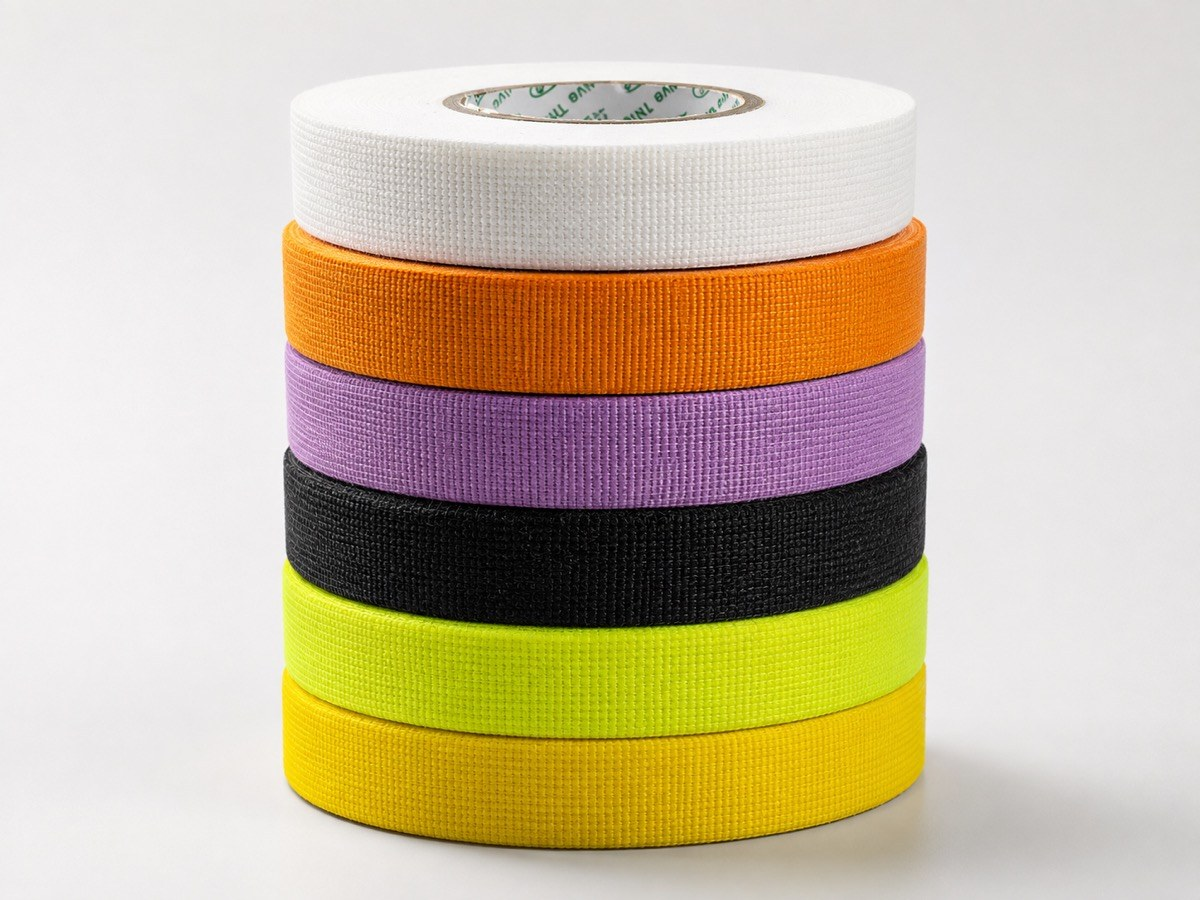
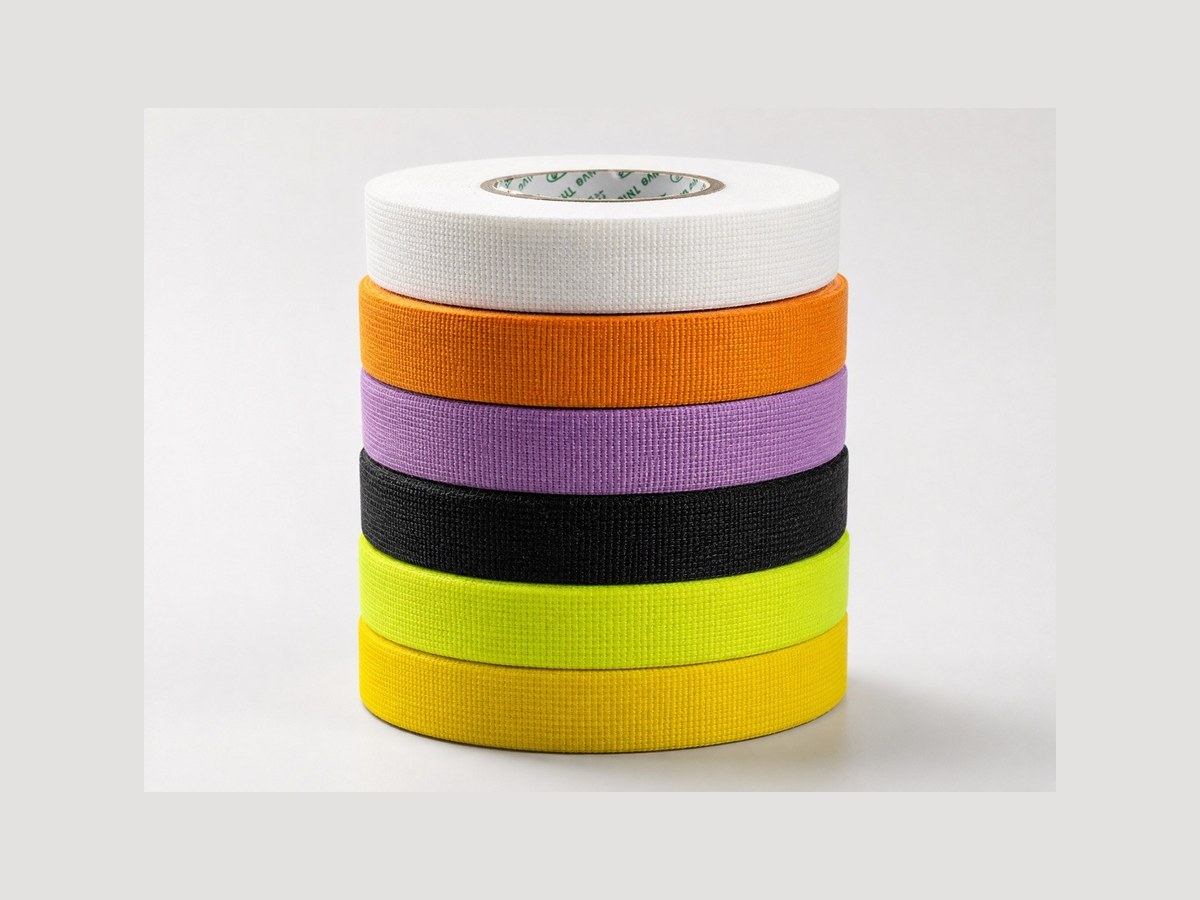
优化产品图显示：产品缩至76%居中、容器4:3比例、contain完整显示不放大
- 5张产品图: 产品主体缩至76%居中，四周留柔和背景
- product-detail-media: min-height 420px → aspect-ratio 4/3
- product-media: 改为 grid 居中，contain 完整显示
- 三处图片容器统一 contain + center，不再放大裁切

diff --git a/assets/css/styles.css b/assets/css/styles.css
@@ -37,7 +37,7 @@ button,input,textarea,select{font:inherit}
 .hero-content{position:relative;z-index:3;max-width:740px;margin-left:3vw}.eyebrow,.kicker{text-transform:uppercase;letter-spacing:.2em;font-size:11px;font-weight:700;color:var(--green)}.eyebrow{display:flex;align-items:center;gap:12px}.eyebrow span{width:46px;height:1px;background:var(--green)}
 h1{font-size:clamp(52px,6.4vw,108px);line-height:.94;letter-spacing:-.052em;text-transform:uppercase;margin:28px 0 30px;max-width:1000px}h1 em{font-style:normal;color:var(--green)}.hero-content>p{max-width:610px;color:#c5d0d2;font-size:18px}.hero-actions{display:flex;gap:14px;margin-top:35px}.hero-meta{display:flex;gap:58px;margin-top:64px;padding-top:25px;border-top:1px solid var(--line);max-width:710px}.hero-meta div{display:flex;flex-direction:column}.hero-meta strong{font-size:22px;color:#fff}.hero-meta span{font-size:10px;color:#9aabad;text-transform:uppercase;letter-spacing:.12em}.hero-badges{position:absolute;right:7vw;bottom:68px;z-index:3;display:grid;grid-template-columns:repeat(2,1fr);gap:7px}.hero-badges span{font-size:9px;letter-spacing:.13em;border:1px solid rgba(255,255,255,.2);padding:10px 12px;background:rgba(4,16,24,.65)}.scroll-cue{position:absolute;left:5vw;bottom:28px;z-index:3;display:flex;align-items:center;gap:12px;font-size:9px;text-transform:uppercase;letter-spacing:.14em;color:#9fb0b3}.scroll-cue i{width:60px;height:1px;background:var(--green)}
 .section{padding:120px 8vw;position:relative}.vertical-label{position:absolute;left:2vw;top:120px;writing-mode:vertical-rl;text-orientation:mixed;font-size:9px;letter-spacing:.16em;color:#607078}.section-number{font-weight:700}.intro{display:grid;grid-template-columns:minmax(0,1.55fr) minmax(280px,.7fr);gap:10vw;align-items:end}.intro h2,.section-head h2,.application h2,.manufacturing-preview h2,.markets h2,.quality-preview h2,.cta h2,.page-hero h1{font-size:clamp(38px,4.5vw,72px);line-height:1.03;letter-spacing:-.045em;margin:18px 0 0}.intro-note p{font-size:17px;color:#4d5b60}.text-link{display:inline-flex;gap:12px;align-items:center;margin-top:20px;font-size:12px;text-transform:uppercase;letter-spacing:.12em;font-weight:700}.text-link span{color:var(--green);font-size:18px}.text-link.light{color:#fff}
-.products{padding-top:125px}.section-head{display:flex;justify-content:space-between;align-items:end;gap:30px;margin-bottom:60px}.product-stage{display:grid;grid-template-columns:1.1fr 1fr;border:1px solid var(--line)}.product-feature{display:grid;grid-template-columns:1.05fr .95fr;min-height:650px;border-right:1px solid var(--line)}.product-media{overflow:hidden;display:flex;align-items:center;justify-content:center}.product-media img{width:100%;height:100%;object-fit:cover;object-position:center;transition:.7s}.product-feature:hover .product-media img{transform:scale(1.045) rotate(-1deg)}.soft-white{background:linear-gradient(145deg,#f6f8f5,#dfe6e1)}.product-copy{padding:55px 42px;display:flex;flex-direction:column;justify-content:center}.product-index{font-size:11px;color:var(--green);letter-spacing:.18em}.product-type{text-transform:uppercase;color:#9fb1b5;font-size:10px;letter-spacing:.15em}.product-copy h3,.product-card h3{font-size:33px;line-height:1.05;margin:10px 0 20px;letter-spacing:-.035em}.product-copy>p{color:#aebfc1}.spec-row{display:flex;gap:8px;flex-wrap:wrap;padding:0;margin:24px 0;list-style:none}.spec-row li{padding:8px 9px;border:1px solid var(--line);font-size:10px;color:#cbd5d6}.product-copy>a{font-size:11px;text-transform:uppercase;letter-spacing:.14em;color:var(--green)}.product-grid-small{display:grid;grid-template-columns:1fr 1fr}.product-card{padding:28px;border-right:1px solid var(--line);border-bottom:1px solid var(--line);min-height:325px}.product-card:nth-child(2n){border-right:0}.product-card:nth-last-child(-n+2){border-bottom:0}.card-top{display:flex;justify-content:space-between;color:var(--green);font-size:10px;letter-spacing:.14em}.card-top small{color:#8ea0a4;text-transform:uppercase}.product-thumb{height:145px;margin:18px 0;overflow:hidden}.product-thumb img{height:100%;width:100%;object-fit:cover;object-position:center;transition:.5s}.product-card:hover img{transform:scale(1.07)}.product-card h3{font-size:21px;margin:10px 0}.product-card p{font-size:11px;color:#91a3a6;margin:0}
+.products{padding-top:125px}.section-head{display:flex;justify-content:space-between;align-items:end;gap:30px;margin-bottom:60px}.product-stage{display:grid;grid-template-columns:1.1fr 1fr;border:1px solid var(--line)}.product-feature{display:grid;grid-template-columns:1.05fr .95fr;min-height:650px;border-right:1px solid var(--line)}.product-media{overflow:hidden;display:grid;place-items:center}.product-media img{width:100%;height:100%;object-fit:contain;object-position:center;transition:.7s}.product-feature:hover .product-media img{transform:scale(1.045) rotate(-1deg)}.soft-white{background:linear-gradient(145deg,#f6f8f5,#dfe6e1)}.product-copy{padding:55px 42px;display:flex;flex-direction:column;justify-content:center}.product-index{font-size:11px;color:var(--green);letter-spacing:.18em}.product-type{text-transform:uppercase;color:#9fb1b5;font-size:10px;letter-spacing:.15em}.product-copy h3,.product-card h3{font-size:33px;line-height:1.05;margin:10px 0 20px;letter-spacing:-.035em}.product-copy>p{color:#aebfc1}.spec-row{display:flex;gap:8px;flex-wrap:wrap;padding:0;margin:24px 0;list-style:none}.spec-row li{padding:8px 9px;border:1px solid var(--line);font-size:10px;color:#cbd5d6}.product-copy>a{font-size:11px;text-transform:uppercase;letter-spacing:.14em;color:var(--green)}.product-grid-small{display:grid;grid-template-columns:1fr 1fr}.product-card{padding:28px;border-right:1px solid var(--line);border-bottom:1px solid var(--line);min-height:325px}.product-card:nth-child(2n){border-right:0}.product-card:nth-last-child(-n+2){border-bottom:0}.card-top{display:flex;justify-content:space-between;color:var(--green);font-size:10px;letter-spacing:.14em}.card-top small{color:#8ea0a4;text-transform:uppercase}.product-thumb{height:145px;margin:18px 0;overflow:hidden}.product-thumb img{height:100%;width:100%;object-fit:contain;object-position:center;transition:.5s}.product-card:hover img{transform:scale(1.07)}.product-card h3{font-size:21px;margin:10px 0}.product-card p{font-size:11px;color:#91a3a6;margin:0}
 .application-layout{display:grid;grid-template-columns:.72fr 1.28fr;align-items:center;gap:6vw}.app-copy>p:not(.kicker){color:#526167;font-size:16px}.app-list{display:flex;flex-wrap:wrap;gap:10px;margin-top:33px}.app-chip{border:1px solid rgba(7,19,29,.2);background:transparent;padding:10px 13px;text-transform:uppercase;font-size:9px;letter-spacing:.13em;cursor:pointer}.app-chip.active,.app-chip:hover{background:var(--ink);color:#fff;border-color:var(--ink)}.app-visual{position:relative}.app-visual img{mix-blend-mode:multiply}.hotspot{position:absolute;font-size:9px;text-transform:uppercase;letter-spacing:.1em;color:#0b1820}.hotspot i{display:inline-block;width:10px;height:10px;border-radius:50%;background:var(--green);box-shadow:0 0 0 8px rgba(120,216,27,.15);margin-right:8px}.hs1{left:30%;top:23%}.hs2{right:10%;top:28%}.hs3{left:44%;bottom:20%}.hs4{right:28%;bottom:28%}
 .performance{padding:115px 8vw;position:relative}.performance-line{position:absolute;left:0;right:0;top:50%;height:1px;background:var(--line)}.perf-title{display:flex;gap:28px;align-items:center;margin-bottom:48px}.perf-title span{color:var(--green);font-size:11px;letter-spacing:.15em}.perf-title h2{font-size:clamp(38px,4.5vw,70px);margin:0;letter-spacing:-.045em}.perf-grid{display:grid;grid-template-columns:repeat(4,1fr);border:1px solid var(--line)}.perf-card{min-height:400px;padding:35px 26px;border-right:1px solid var(--line);background:rgba(255,255,255,.015)}.perf-card:last-child{border-right:0}.perf-card small{color:var(--green)}.perf-card h3{font-size:24px;margin:55px 0 25px}.perf-card p{color:#96a8ab;font-size:13px;margin-top:45px}.wave{height:70px;display:flex;align-items:center;gap:8px}.wave i{display:block;width:2px;background:var(--green);animation:wave 1.7s ease-in-out infinite}.wave i:nth-child(1),.wave i:nth-child(7){height:15px}.wave i:nth-child(2),.wave i:nth-child(6){height:35px}.wave i:nth-child(3),.wave i:nth-child(5){height:58px}.wave i:nth-child(4){height:70px}@keyframes wave{50%{transform:scaleY(.42);opacity:.5}}.abrasion-graphic{height:70px;display:flex;gap:10px;align-items:center}.abrasion-graphic span{height:12px;flex:1;border:1px solid rgba(255,255,255,.3);transform:skewX(-20deg)}.abrasion-graphic span:nth-child(3),.abrasion-graphic span:nth-child(4){background:var(--green);border-color:var(--green)}.heat-graphic{height:70px;display:flex;gap:12px;align-items:end}.heat-graphic i{width:14px;border-radius:10px 10px 0 0;background:linear-gradient(transparent,var(--green))}.heat-graphic i:nth-child(1){height:34px}.heat-graphic i:nth-child(2){height:54px}.heat-graphic i:nth-child(3){height:70px}.eco-orbit{height:70px;position:relative;width:70px;border:1px solid rgba(120,216,27,.35);border-radius:50%;display:grid;place-items:center;color:var(--green);font-weight:700}.eco-orbit:before,.eco-orbit:after{content:"";position:absolute;inset:-9px;border:1px solid rgba(120,216,27,.15);border-radius:50%}.eco-orbit:after{inset:-18px}.eco-orbit i{position:absolute;width:7px;height:7px;background:var(--green);border-radius:50%;right:-4px}
 .process-strip{display:grid;grid-template-columns:repeat(4,1fr);border:1px solid rgba(7,19,29,.14)}.process-card{position:relative;min-height:420px;overflow:hidden;border-right:1px solid rgba(7,19,29,.14)}.process-card:last-child{border-right:0}.process-card img{width:100%;height:100%;object-fit:cover;filter:saturate(.6) contrast(1.05);transition:.55s}.process-card:after{content:"";position:absolute;inset:0;background:linear-gradient(transparent 30%,rgba(4,14,20,.91))}.process-card:hover img{transform:scale(1.06);filter:saturate(1)}.process-card>span{position:absolute;top:20px;left:20px;z-index:2;color:#fff;font-size:11px}.process-card>div{position:absolute;left:24px;right:24px;bottom:23px;z-index:2;color:#fff}.process-card small{text-transform:uppercase;letter-spacing:.15em;color:var(--green)}.process-card h3{font-size:20px;line-height:1.2;margin:8px 0 0}
@@ -47,7 +47,7 @@ h1{font-size:clamp(52px,6.4vw,108px);line-height:.94;letter-spacing:-.052em;text
 .site-footer{background:#040c12;padding:70px 8vw 30px;display:grid;grid-template-columns:1.8fr repeat(3,1fr);gap:50px;color:#b3c0c2}.footer-brand img{width:230px;filter:brightness(0) invert(1);margin-bottom:20px}.footer-brand p{max-width:310px;font-size:13px}.site-footer h4{color:#fff;text-transform:uppercase;font-size:11px;letter-spacing:.14em;margin:0 0 18px}.site-footer a,.site-footer span{display:block;font-size:12px;margin:8px 0}.footer-bottom{grid-column:1/-1;border-top:1px solid var(--line);padding-top:25px;display:flex;justify-content:space-between;margin-top:25px}.footer-bottom span{font-size:10px;color:#728487}
 /* Inner pages */
 .page-hero{padding:170px 8vw 90px;min-height:520px;position:relative;overflow:hidden}.page-hero:after{content:"";position:absolute;right:-10%;top:20%;width:50%;height:80%;border:1px solid rgba(120,216,27,.2);border-radius:50%}.page-hero .kicker,.page-hero h1,.page-hero p{position:relative;z-index:2}.page-hero h1{max-width:950px;text-transform:none}.page-hero p{max-width:690px;color:#9fb0b3;font-size:17px}.crumbs{margin-top:30px;display:flex;gap:10px;color:#708488;font-size:10px;text-transform:uppercase;letter-spacing:.12em}.crumbs b{color:var(--green)}
-.inner-section{padding:95px 8vw}.product-detail{display:grid;grid-template-columns:.85fr 1.15fr;gap:6vw;align-items:center;padding:70px 0;border-bottom:1px solid rgba(7,19,29,.13)}.product-detail:nth-child(even) .product-detail-media{order:2}.product-detail-media{background:linear-gradient(145deg,#fff,#dfe7e1);min-height:420px;display:grid;place-items:center;overflow:hidden}.product-detail-media img{width:100%;height:420px;object-fit:cover;object-position:center}.product-detail-copy h2{font-size:44px;line-height:1.05;margin:12px 0}.product-detail-copy p{color:#526167}.tech-table{display:grid;grid-template-columns:1fr 1fr;border-top:1px solid rgba(7,19,29,.18);margin:25px 0}.tech-table div{padding:12px 0;border-bottom:1px solid rgba(7,19,29,.13);font-size:12px}.tech-table div:nth-child(odd){color:#66777b}.download-row{display:flex;gap:10px;flex-wrap:wrap}.download-row a{font-size:10px;text-transform:uppercase;letter-spacing:.12em;border:1px solid rgba(7,19,29,.24);padding:10px 13px}.download-row a:hover{background:var(--ink);color:#fff}
+.inner-section{padding:95px 8vw}.product-detail{display:grid;grid-template-columns:.85fr 1.15fr;gap:6vw;align-items:center;padding:70px 0;border-bottom:1px solid rgba(7,19,29,.13)}.product-detail:nth-child(even) .product-detail-media{order:2}.product-detail-media{background:linear-gradient(145deg,#fff,#dfe7e1);aspect-ratio:4/3;display:grid;place-items:center;overflow:hidden}.product-detail-media img{width:100%;height:100%;object-fit:contain;object-position:center}.product-detail-copy h2{font-size:44px;line-height:1.05;margin:12px 0}.product-detail-copy p{color:#526167}.tech-table{display:grid;grid-template-columns:1fr 1fr;border-top:1px solid rgba(7,19,29,.18);margin:25px 0}.tech-table div{padding:12px 0;border-bottom:1px solid rgba(7,19,29,.13);font-size:12px}.tech-table div:nth-child(odd){color:#66777b}.download-row{display:flex;gap:10px;flex-wrap:wrap}.download-row a{font-size:10px;text-transform:uppercase;letter-spacing:.12em;border:1px solid rgba(7,19,29,.24);padding:10px 13px}.download-row a:hover{background:var(--ink);color:#fff}
 .cap-grid{display:grid;grid-template-columns:repeat(3,1fr);gap:18px}.cap-card{background:#0c202a;min-height:360px;position:relative;overflow:hidden}.cap-card img{width:100%;height:250px;object-fit:cover;filter:saturate(.65)}.cap-card div{padding:22px}.cap-card small{color:var(--green);text-transform:uppercase;letter-spacing:.14em}.cap-card h3{margin:7px 0 0;font-size:21px}.lab-grid{display:grid;grid-template-columns:repeat(4,1fr);gap:15px}.lab-grid article{background:#fff;color:var(--ink);padding:10px}.lab-grid img{height:210px;width:100%;object-fit:cover}.lab-grid h3{font-size:15px;margin:13px 5px 4px}.lab-grid p{font-size:11px;color:#627176;margin:0 5px 10px}.quality-page-grid{display:grid;grid-template-columns:repeat(3,1fr);gap:25px}.quality-cert{background:#fff;color:var(--ink);padding:18px;box-shadow:var(--shadow)}.quality-cert img{height:520px;width:100%;object-fit:contain;background:#eef1ef}.quality-cert h3{margin-bottom:4px}.quality-cert p{font-size:12px;color:#5f6e73}.quality-cert a{display:inline-block;color:#1c6f35;font-size:10px;text-transform:uppercase;letter-spacing:.12em;font-weight:700}
 .contact-layout{display:grid;grid-template-columns:.75fr 1.25fr;gap:7vw}.contact-info h2{font-size:50px;line-height:1.05}.contact-info p{color:#516066}.contact-card{margin-top:35px;border-top:1px solid rgba(7,19,29,.15)}.contact-card div{padding:17px 0;border-bottom:1px solid rgba(7,19,29,.15)}.contact-card small{display:block;text-transform:uppercase;letter-spacing:.14em;color:#7c8b90;font-size:9px}.contact-card a,.contact-card span{font-size:15px}.inquiry-form{background:#0b2029;padding:42px}.form-grid{display:grid;grid-template-columns:1fr 1fr;gap:16px}.field{display:flex;flex-direction:column;gap:7px}.field.full{grid-column:1/-1}.field label{font-size:9px;text-transform:uppercase;letter-spacing:.14em;color:#9fb0b3}.field input,.field select,.field textarea{background:rgba(255,255,255,.045);border:1px solid rgba(255,255,255,.16);color:#fff;padding:13px;outline:none}.field select option{color:#111}.field textarea{min-height:130px;resize:vertical}.form-note{font-size:10px;color:#7e9195;margin-top:15px}.form-status{display:none;color:var(--green);margin-top:14px;font-size:12px}
 .reveal{opacity:0;transform:translateY(24px);transition:opacity .8s ease,transform .8s ease}.reveal.in-view{opacity:1;transform:none}.delay-1{transition-delay:.12s}.delay-2{transition-delay:.24s}.delay-3{transition-delay:.36s}
